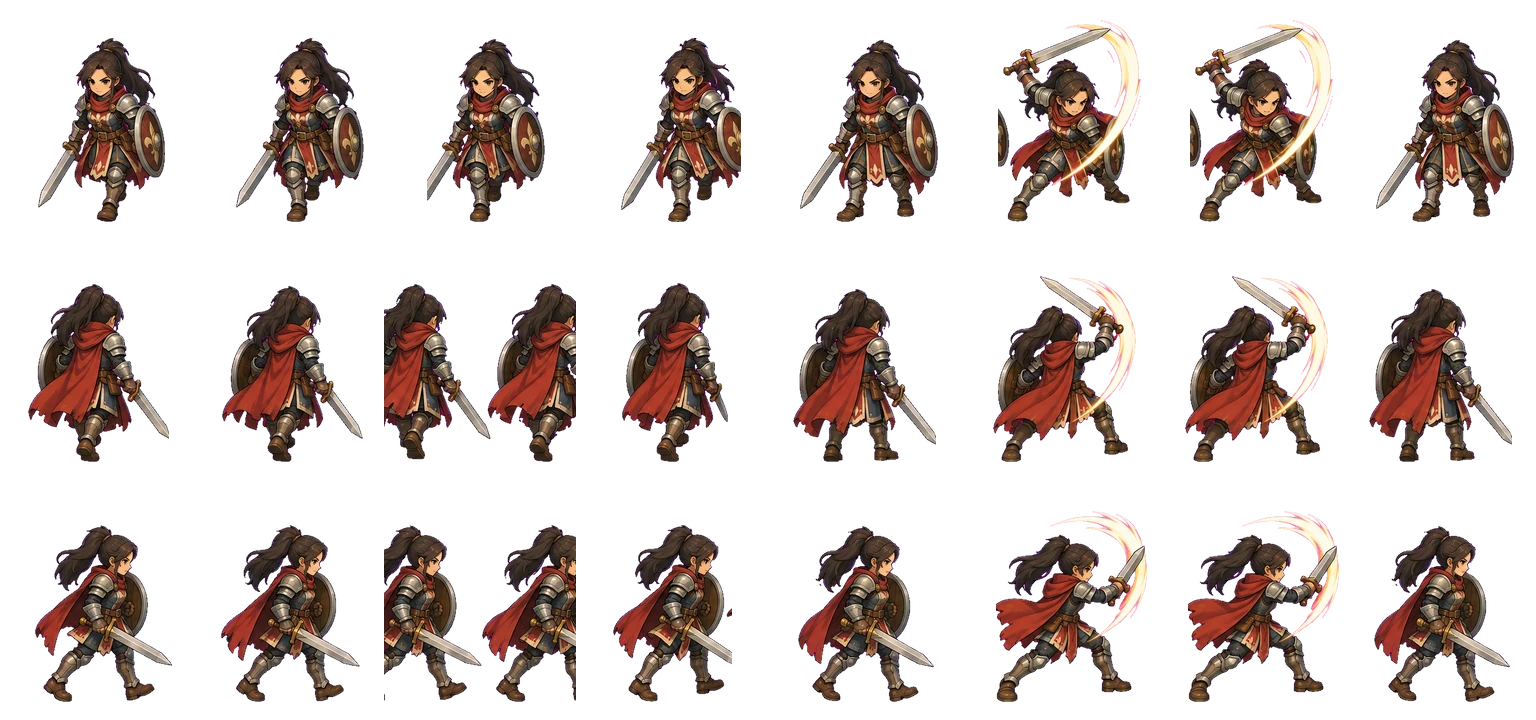
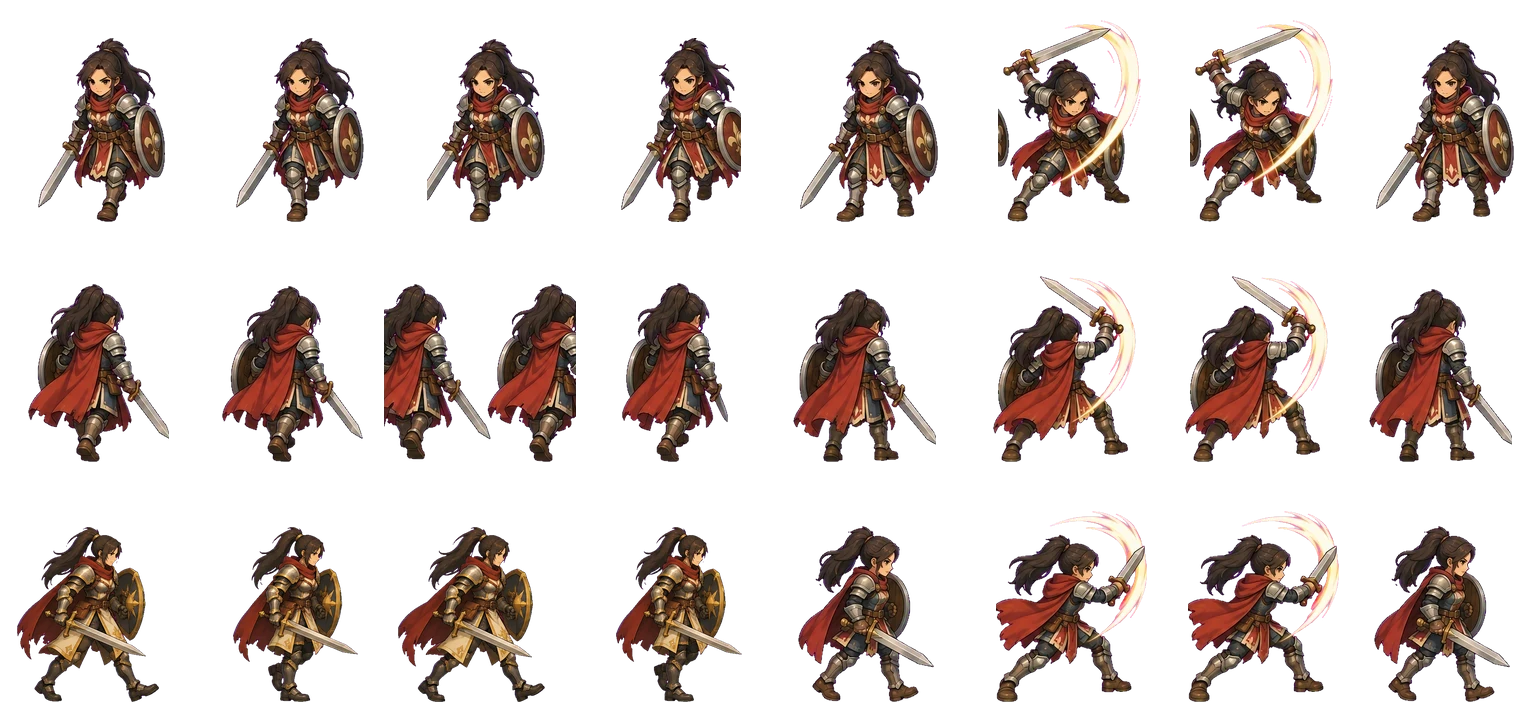
Город без скал: открытая деревня, границы — деревья и кусты; новые кадры ходьбы в профиль у всех героев; картинки грузятся заново при каждой версии (без старого кэша); названия обликов
Claude-Session: https://claude.ai/code/session_01Eg6ZNTzzfwn3ChRJWH5NGm

Changed region(s): [[0.0, 0.7333, 0.5, 0.9778]]

diff --git a/src/systems/mapgen.js b/src/systems/mapgen.js
@@ -106,6 +106,26 @@ export function generateZone(id, z) {
       for (let y = 0; y < H; y++) for (let x = 0; x < W; x++) if (Math.hypot((x + 0.5 - r.x) / r.rx, (y + 0.5 - r.y) / r.ry) < 1) walk[idx(x, y)] = 1;
     }
     for (const e of z.exits || []) stampCircle(e.x, e.y, (e.w || 3) / 2 + 0.5, (x, y) => (walk[idx(x, y)] = 1));
+    // открытая земля (городок): ходить можно везде, кроме кромки карты; дороги — просто дороги
+    const deco = [];
+    if (z.walk.open) {
+      const nearRoad = new Uint8Array(W * H);
+      for (let i = 0; i < W * H; i++) if (walk[i]) nearRoad[i] = 1;
+      for (let y = 0; y < H; y++) for (let x = 0; x < W; x++) {
+        const edge = Math.min(x, y, W - 1 - x, H - 1 - y);
+        const ex = (z.exits || []).some(e => Math.hypot(x + 0.5 - e.x, y + 0.5 - e.y) < (e.w || 3) / 2 + 1.2);
+        if (edge >= z.walk.open || ex) walk[idx(x, y)] = 1;
+      }
+      // редкие деревья и кусты на траве — подальше от дорог и домов
+      for (let y = 0; y < H; y++) for (let x = 0; x < W; x++) {
+        if (!walk[idx(x, y)] || ter[idx(x, y)] !== z.base) continue;
+        let near = false;
+        for (let dy = -2; dy <= 2 && !near; dy++) for (let dx = -2; dx <= 2 && !near; dx++) { const j = inb(x + dx, y + dy) ? idx(x + dx, y + dy) : -1; if (j >= 0 && (nearRoad[j] || solidT[j])) near = true; }
+        if (near) { if (rng.chance(0.05)) deco.push(place(rng.pick(z.walk.edge || ["bush"]), x + 0.5, y + 0.6, null, { col: 0 })); continue; }
+        if (rng.chance(0.05)) place(rng.pick(z.walk.trees || ["oak"]), x + 0.5, y + 0.7);
+        else if (rng.chance(0.05)) place(rng.pick(z.walk.edge || ["bush"]), x + 0.5, y + 0.6, null, { col: 0 });
+      }
+    }
     // участки построек — на уровне земли
     for (const pr of props) if (pr.foot) {
       for (let y = pr.fy - 1; y < pr.fy + pr.foot[1] + 1; y++) for (let x = pr.fx - 1; x < pr.fx + pr.foot[0] + 1; x++) if (inb(x, y) && !walk[idx(x, y)]) lot[idx(x, y)] = 1;
@@ -114,22 +134,33 @@ export function generateZone(id, z) {
     for (let i = 0; i < W * H; i++) if (lot[i] && !solidT[i]) walk[i] = 1;
     for (let i = 0; i < W * H; i++) if (water[i] || solidT[i]) walk[i] = 0;
     for (let i = 0; i < W * H; i++) if (solidT[i]) lot[i] = 1; else lot[i] = 0;
-    // перед проходом (ближе к камере) — обрыв вниз; за проходом — скала вверх
-    const front = new Uint8Array(W * H), raised = new Uint8Array(W * H);
+    // граница проходов — живая изгородь из кустов и деревьев (как в Zenonia: сразу видно, куда можно пройти)
     const isW = (x, y) => inb(x, y) && walk[idx(x, y)];
+    const rr = rng, dist = new Uint8Array(W * H).fill(9);
     for (let y = 0; y < H; y++) for (let x = 0; x < W; x++) {
-      const i = idx(x, y); if (walk[i] || lot[i] || water[i]) continue;
-      let f = false;
-      for (let d = 1; d <= 2 && !f; d++) f = isW(x - d, y) || isW(x, y - d) || isW(x - d, y - d);
-      if (f) front[i] = 1; else raised[i] = 1;
+      const i = idx(x, y); if (walk[i] || lot[i] || water[i]) { dist[i] = 0; continue; }
+      for (let d = 1; d <= 3; d++) {
+        let f = false;
+        for (let dy = -d; dy <= d && !f; dy++) for (let dx = -d; dx <= d && !f; dx++) if (isW(x + dx, y + dy)) f = true;
+        if (f) { dist[i] = d; break; }
+      }
     }
-    // земля в проходах — из описания (дорожки/площади уже проставлены в ter), остальное — основа
-    const rr = rng;
-    // деревья на скалах (поднятые)
+    const edgeP = z.walk.edge || ["bush", "bush", "rock"], trees = z.walk.trees || ["oak", "pine"];
     for (let y = 0; y < H; y++) for (let x = 0; x < W; x++) {
-      if (!raised[idx(x, y)] || !rr.chance(z.walk.topTrees ?? 0.18)) continue;
-      place(rr.pick(z.walk.trees || ["oak"]), x + rr.range(0.3, 0.7), y + rr.range(0.4, 0.8), null, { elev: 1, col: 0, block: null });
+      const dd = dist[idx(x, y)];
+      if (dd === 1) {
+        place(rr.pick(edgeP), x + 0.5 + rr.range(-0.15, 0.15), y + 0.6 + rr.range(-0.1, 0.1), null, { col: 0 });
+        if (rr.chance(0.3)) place(rr.pick(edgeP), x + rr.range(0.1, 0.4), y + rr.range(0.2, 0.5), null, { col: 0 });
+      } else {
+        // перед проходом (ближе к камере) высокие деревья закрывали бы героя — там только кусты, деревья дальше
+        let front = false;
+        for (let d = 1; d <= 4 && !front; d++) front = isW(x - d, y) || isW(x, y - d) || isW(x - d, y - d);
+        if (front) { if (dd === 2 && rr.chance(0.35)) place(rr.pick(edgeP), x + rr.range(0.3, 0.7), y + rr.range(0.4, 0.8), null, { col: 0 }); }
+        else if (dd === 2 && rr.chance(0.5)) place(rr.pick(trees), x + rr.range(0.3, 0.7), y + rr.range(0.4, 0.8), null, { col: 0 });
+        else if (dd >= 3 && rr.chance(0.16)) place(rr.pick(trees), x + rr.range(0.3, 0.7), y + rr.range(0.4, 0.8), null, { col: 0 });
+      }
     }
+    const raised = null, front = null;
     // непроходимо всё вне проходов (физика — только по краю прохода)
     const solid = new Uint8Array(W * H);
     for (let y = 0; y < H; y++) for (let x = 0; x < W; x++) {

diff --git a/src/data/zones.js b/src/data/zones.js
@@ -34,7 +34,7 @@ export const ZONES = {
         { pts: [[18.5, 12], [30, 12]], w: 2.6 }, { pts: [[1.5, 12.2], [11.5, 12.2]], w: 2.6 },
       ],
       rooms: [{ x: 3.2, y: 12.6, rx: 2, ry: 2 }],
-      trees: ["oak", "pine", "oak"], topTrees: 0.08,
+      trees: ["oak", "pine", "oak"], open: 2,
     },
     scatter: [{ p: "tuft", d: 0.02 }],
     fixed: [
